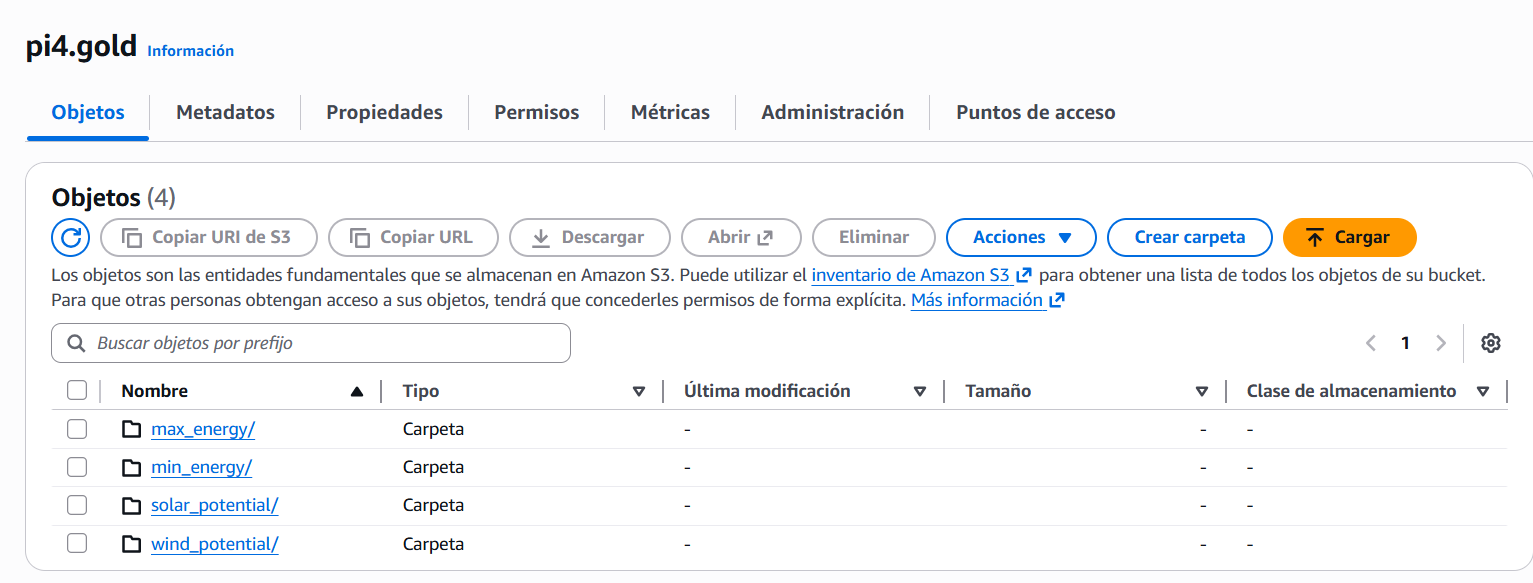
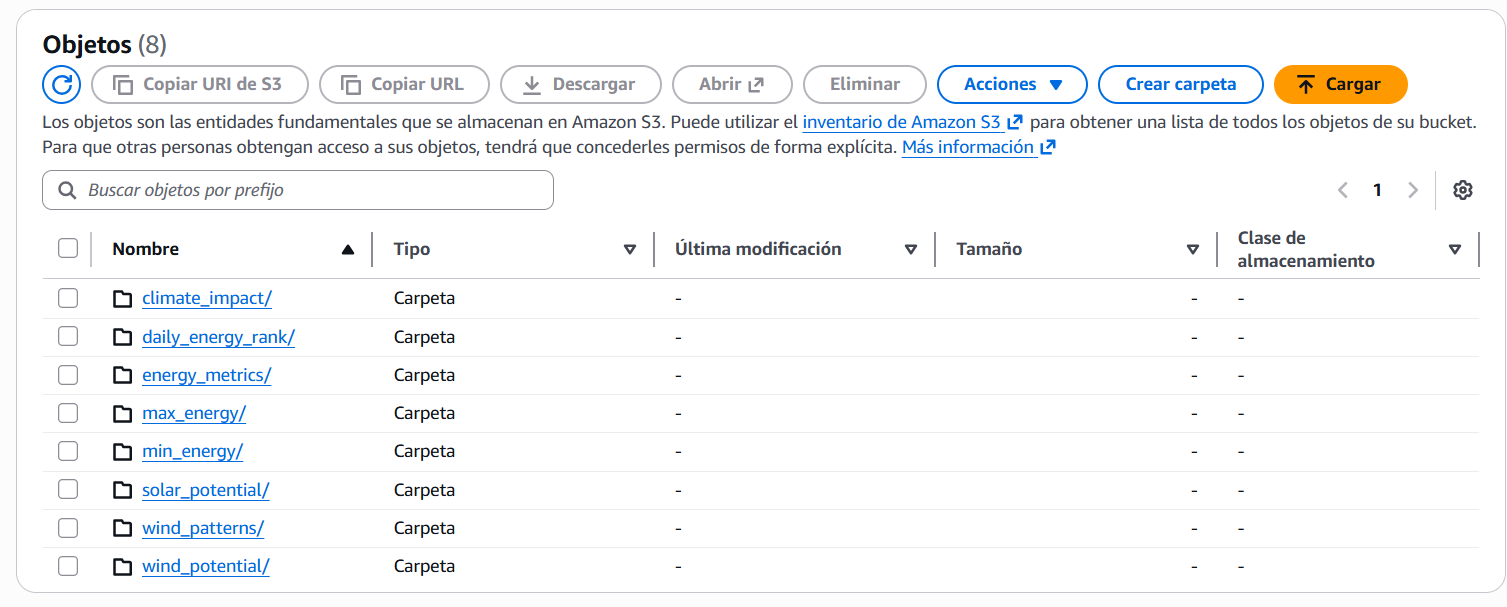
update documentation

diff --git a/script_kafka/api_to_kafka.py b/script_kafka/api_to_kafka.py
@@ -1,0 +1,41 @@
+import time
+import json
+import requests
+from kafka import KafkaProducer
+
+# CONFIGURACIÓN
+API_KEY = "696e04fb47dff426affcab8759e9ef0d"
+LAT = "-41.8101"
+LON = "-68.9063"
+
+URL = f"https://api.openweathermap.org/data/3.0/onecall?lat={LAT}&lon={LON}&appid={API_KEY}"
+
+KAFKA_BROKER = "172.31.36.50:9092"
+TOPIC = "weather_stream"
+
+producer = KafkaProducer(
+    bootstrap_servers=[KAFKA_BROKER],
+    value_serializer=lambda x: json.dumps(x).encode("utf-8")
+)
+
+print("Iniciando envio de datos a Kafka...")
+
+while True:
+    try:
+        response = requests.get(URL)
+
+        if response.status_code == 200:
+            data = response.json()
+
+            producer.send(TOPIC, value=data)
+            producer.flush()
+
+            print("Dato enviado a Kafka correctamente")
+
+        else:
+            print("Error API:", response.status_code)
+
+    except Exception as e:
+        print("Error:", e)
+
+    time.sleep(60)

diff --git a/README.md b/README.md
@@ -1,0 +1,180 @@
+# Pipeline de Ingeniería de Datos para Análisis de datos climaticos.
+
+Este proyecto implementa un pipeline completo de ingeniería de datos diseñado para analizar el comportamiento del potencial energético renovable a partir de datos meteorológicos.
+
+El sistema ingiere datos climáticos desde una API externa, los procesa mediante Apache Spark, los orquesta con Apache Airflow y almacena los resultados en un Data Lake en Amazon S3 siguiendo una arquitectura por capas Bronze / Silver / Gold.
+
+Además, el proyecto incorpora Kafka para ingestión de datos en streaming, infraestructura desplegada en AWS EC2 y validación automática del código mediante CI/CD con GitHub Actions.
+
+El objetivo final es generar datasets analíticos que permitan estudiar el potencial solar y eólico de dos diferentes regiones geográficas (Patagonia y Rio Hacha).
+
+## Arquitectura del Pipeline
+
+![Arquitectura del pipeline](Img/arquitectura_pipeline.png)
+
+El flujo de datos implementado en el proyecto sigue la siguiente arquitectura:
+
+API meteorológica
+↓
+Kafka (Streaming)
+↓
+Bronze Layer – Datos crudos (S3)
+↓
+Spark ETL
+↓
+Silver Layer – Datos limpios (S3)
+↓
+Spark Aggregations
+↓
+Gold Layer – Métricas analíticas (S3)
+
+La ejecución del pipeline es coordinada mediante Apache Airflow.
+
+## Arquitectura del Data Lake
+
+El Data Lake se implementa en Amazon S3 siguiendo un modelo por capas.
+
+- Bronze: Capa de ingestión. s3://pi4.bronce/
+Contiene los datos exactamente como llegan desde las fuentes externas.
+
+Características:
+Archivos JSON crudos
+Sin transformaciones
+Permite trazabilidad completa
+
+- Silver: Capa de procesamiento. s3://pi4.silver
+
+En esta etapa se realizan las siguientes transformaciones:
+limpieza de datos
+normalización de esquemas
+conversión de tipos de datos
+integración de datos históricos y de streaming
+Los datos se almacenan en formato Parquet.
+Particionamiento utilizado:location / year / month
+
+- Gold: Capa analítica. s3://pi4.gold/
+
+Contiene datasets agregados listos para responder preguntas de negocio.
+
+Ejemplos de datasets generados:
+climate_impact/
+daily_energy_rank/
+energy_metrics/
+max_energy/
+min_energy/
+solar_potential/
+wind_patterns/
+wind_potential/
+
+
+## Preguntas de Negocio
+
+El pipeline fue diseñado para responder las siguientes preguntas analíticas:
+
+¿Cómo varía el potencial solar estimado en diferentes regiones?
+
+¿Qué patrones históricos existen en el potencial eólico?
+
+¿Qué condiciones climáticas reducen el potencial energético?
+
+¿Cómo se comportan las predicciones meteorológicas frente a los datos observados?
+
+¿Qué periodos presentan mayor o menor potencial energético?
+
+Estas preguntas se responden utilizando los datasets de la capa Gold.
+
+## Tecnologías Utilizadas
+
+El pipeline fue desarrollado utilizando el siguiente stack tecnológico.
+
+- Almacenamiento
+Amazon S3
+
+alta durabilidad
+
+escalabilidad prácticamente ilimitada
+
+bajo costo
+
+- Procesamiento
+
+Apache Spark (PySpark)
+
+Permite realizar transformaciones distribuidas sobre grandes volúmenes de datos.
+
+Streaming
+
+Apache Kafka
+
+Utilizado para ingestión de datos en tiempo real.
+
+- Orquestación
+
+Apache Airflow
+
+Se encarga de:
+
+programar el pipeline
+
+gestionar dependencias entre tareas
+
+manejar reintentos en caso de error
+
+monitorear ejecuciones
+
+- Infraestructura
+
+AWS EC2
+
+Se utilizan instancias EC2 para ejecutar:
+
+el nodo de Spark
+
+el nodo de Airflow
+
+CI/CD
+
+GitHub Actions
+
+El proyecto incluye un pipeline de integración continua que valida automáticamente:
+
+estilo de código (Flake8)
+tests de PySpark
+ejecución del script ETL
+construcción de la imagen Docker
+
+## Estructura del Proyecto
+project
+│
+├── script_kafka
+│   └── weather_producer.py
+│   Código encargado de la ingestión de datos meteorológicos hacia Kafka
+│
+├── script_spark
+│   ├── silver_weather_etl.py
+│   └── gold_weather_metrics.py
+│   Scripts de transformación y generación de datasets analíticos
+│
+├── script_airflow
+│   └── dags
+│       └── spark_remote_etl.py
+│   Definición del DAG que orquesta el pipeline
+│
+├── test
+│   └── test_spark_transform.py
+│   Pruebas unitarias para validar transformaciones de Spark
+│
+├── requirements.txt
+│   Dependencias del proyecto
+│
+├── Dockerfile
+│   Configuración para ejecutar el proyecto en contenedor
+│
+├── launch_spark_airflow.ps1
+│   Script para desplegar infraestructura en AWS
+│
+├── Docs
+│   └──Avances.ipynb
+│      DOcumentacion de los avances 
+│
+└── README.md
